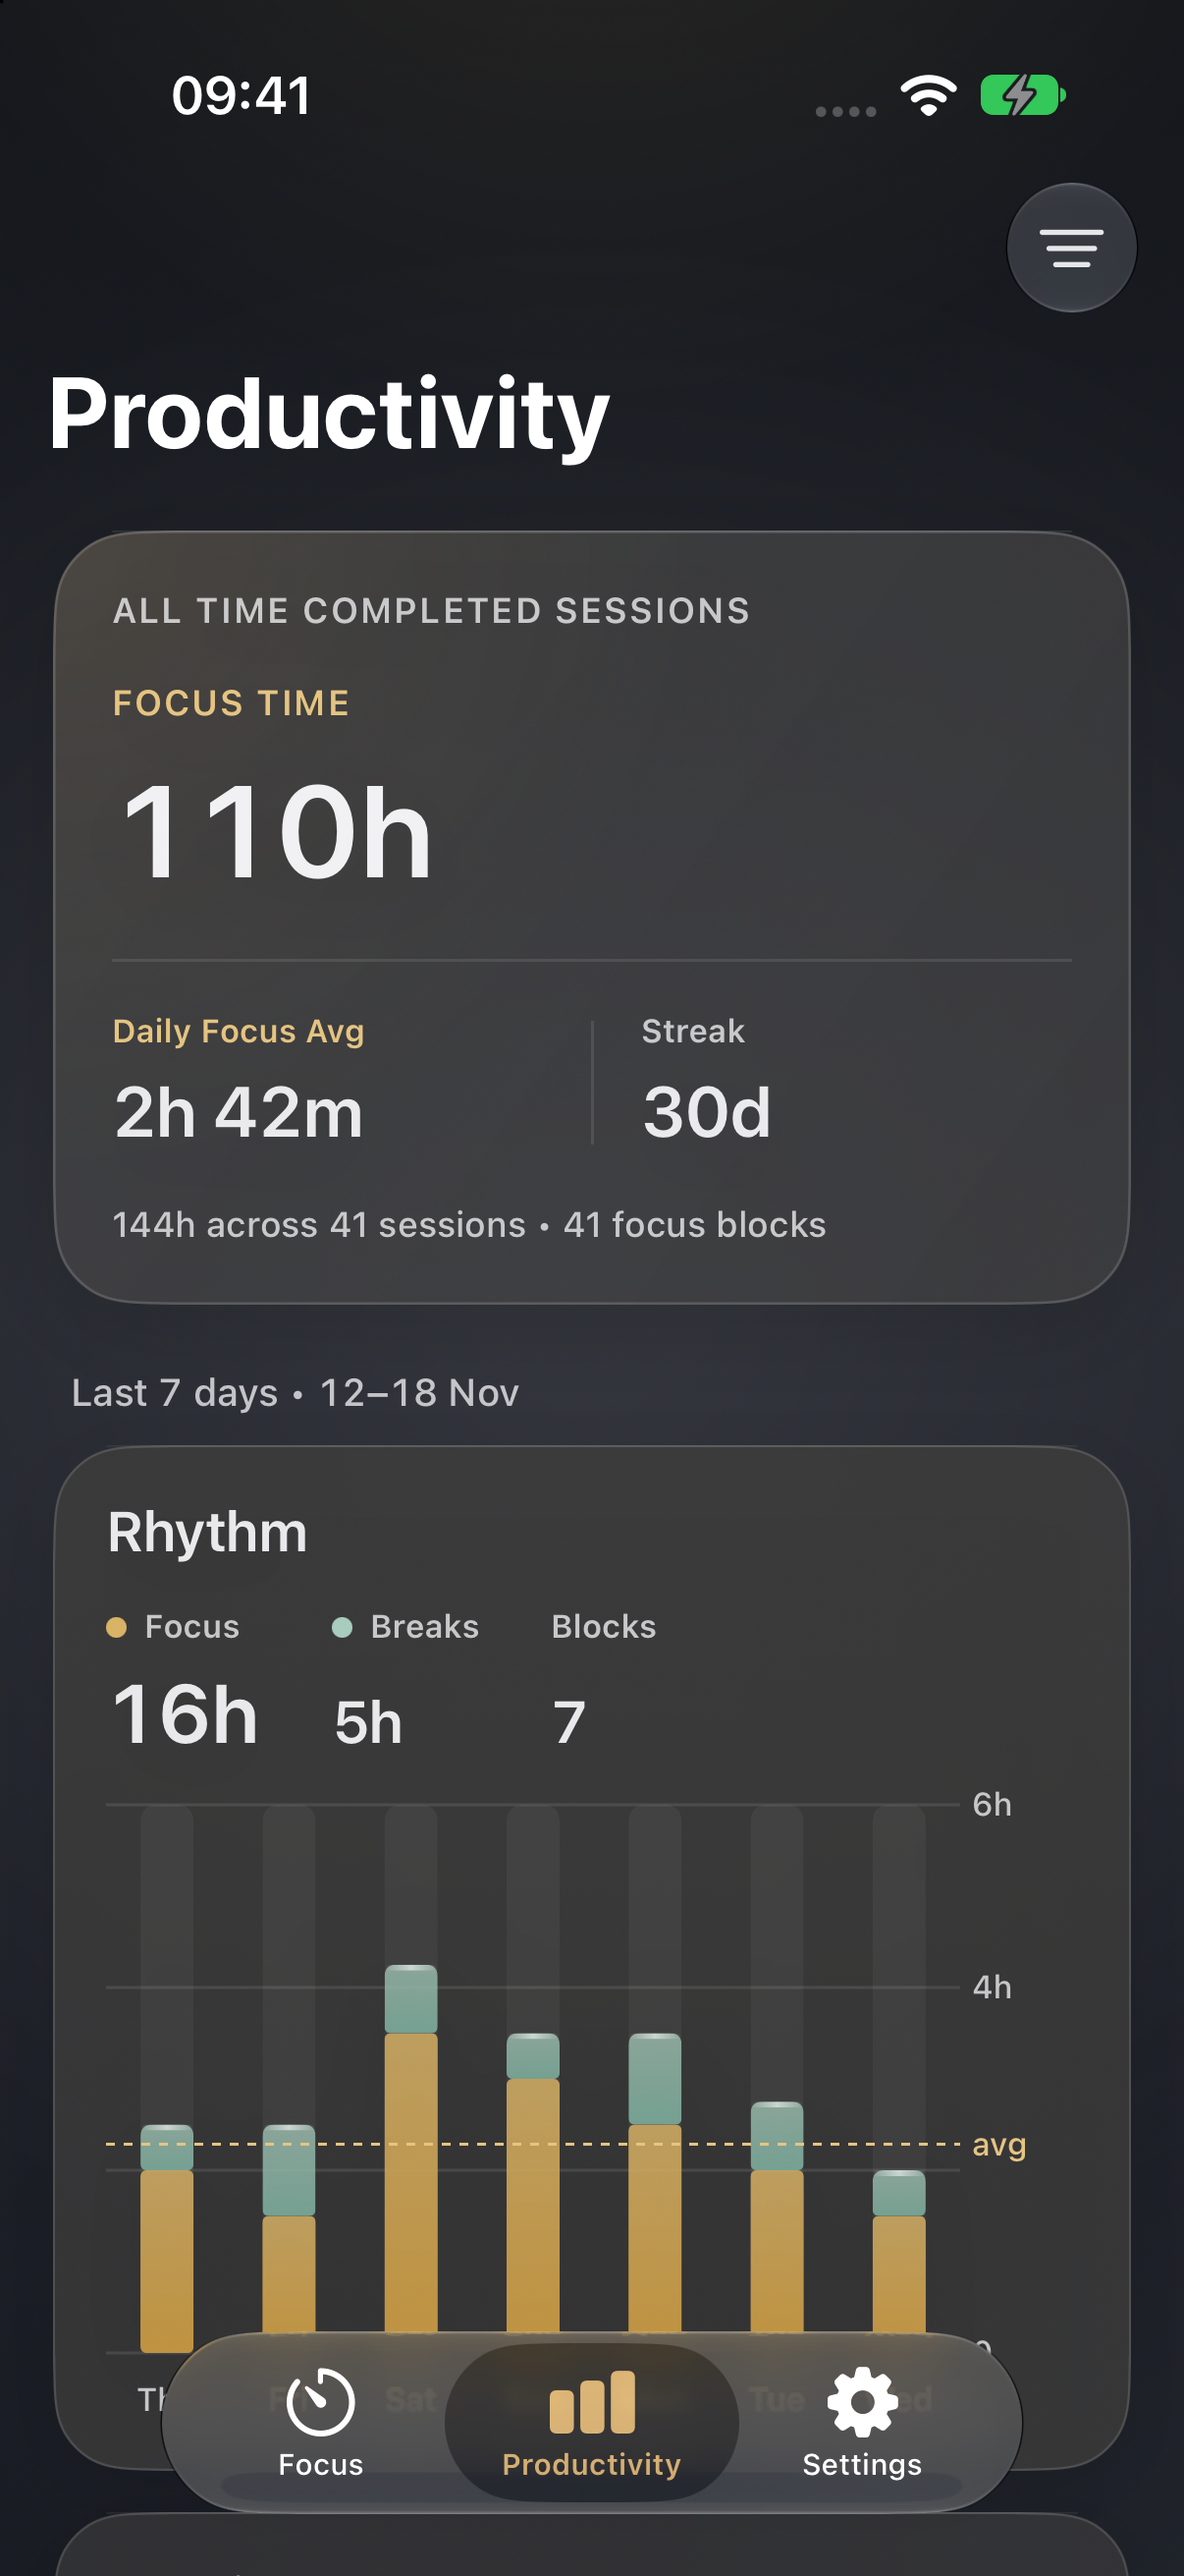
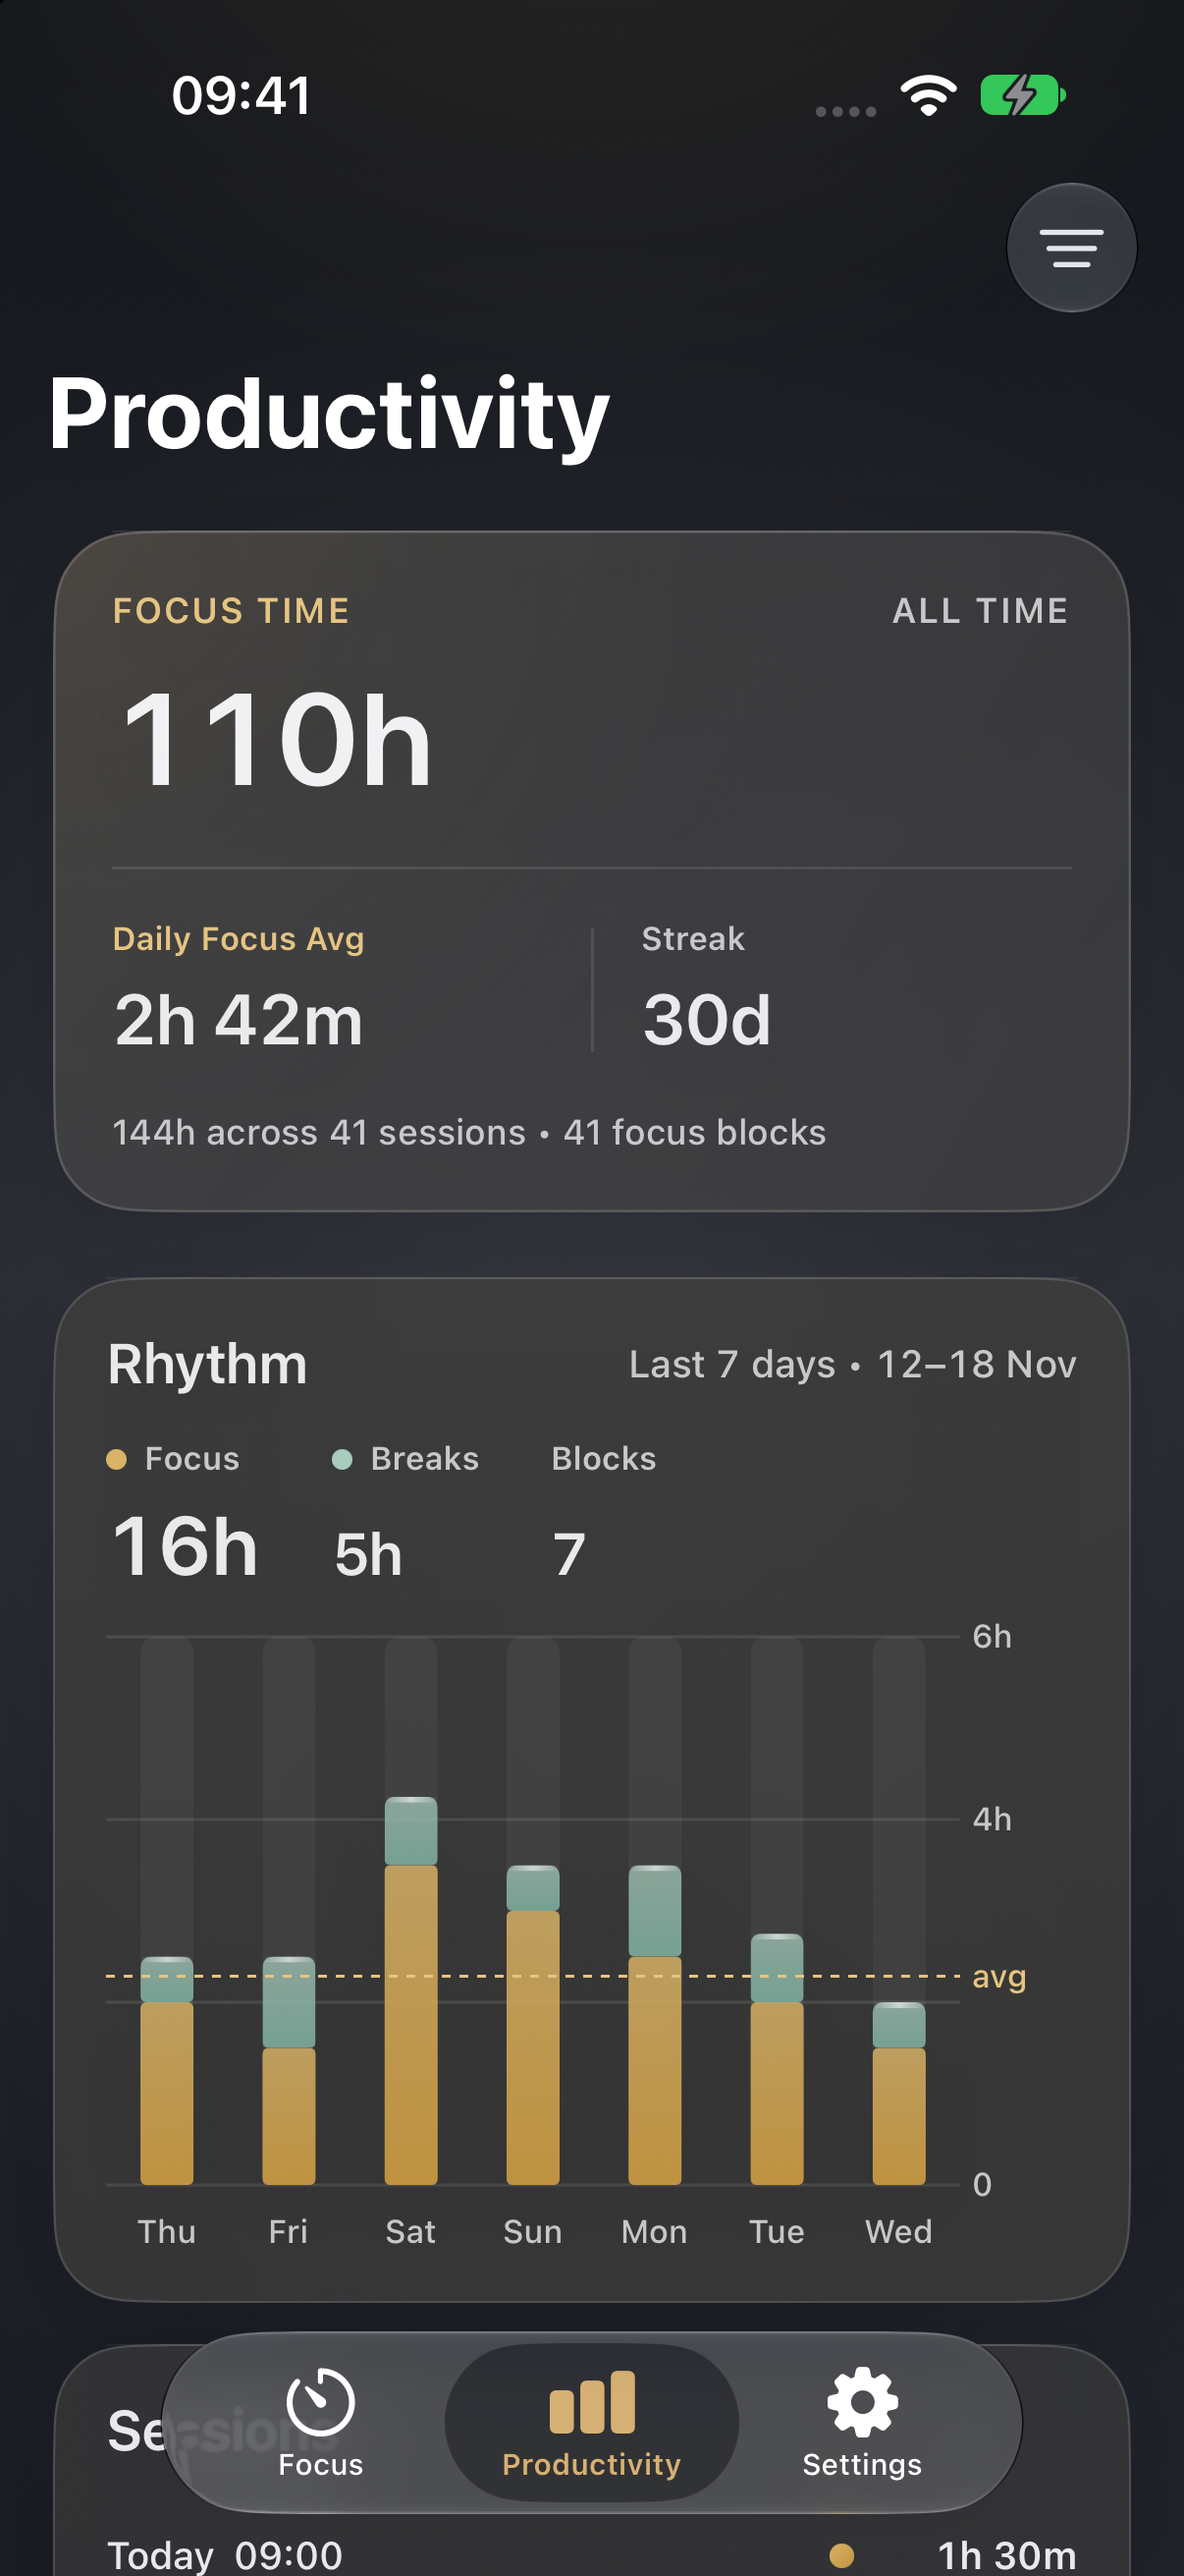
docs: refresh screenshots for the paused status and the compact summary
The paused Focus captures now read Focus · Paused, and the Productivity
captures show the one-line summary heading with the window and dates in
the Rhythm card. Recaptured at 4cc58ee on 18 November. The finished,
immersive and Settings captures were pixel-identical and stay as they
are.

diff --git a/docs/screenshots/README.md b/docs/screenshots/README.md
@@ -8,7 +8,7 @@ The session and history data is generated for these previews. The [README](../..
 
 | Detail | Value |
 | --- | --- |
-| App source revision | `59388ad54066` |
+| App source revision | `4cc58ee55c1b` |
 | Build | Debug, `VibePomodoro` iOS scheme |
 | Toolchain | Xcode 27.2, build 27B52 |
 | Device | iPhone 18 Pro |
@@ -24,7 +24,7 @@ The source revision identifies the app code in the captures. Rolling-window labe
 
 ## Focus and breaks
 
-Each phase is paused halfway through its current step. That keeps the liquid and countdown still for comparison. The outline and color change between phases; the baseline and numeral treatment stay the same.
+Each phase is paused halfway through its current step, so the status reads Focus · Paused and so on. That keeps the liquid and countdown still for comparison. The outline and color change between phases; the baseline and numeral treatment stay the same.
 
 | Phase | Light | Dark |
 | --- | :---: | :---: |
@@ -52,7 +52,7 @@ The populated previews use the existing `long-extreme` UI-testing fixture, which
 | :---: | :---: | :---: |
 | <img src="productivity-light.png" alt="Light all-time summary and Week chart with generated history" width="230"> | <img src="productivity-dark.png" alt="Dark all-time summary and Week chart with generated history" width="230"> | <img src="productivity-detail-light.png" alt="Light Productivity page scrolled to the Week chart and recent-session rows" width="230"> |
 
-The overview images start at the top. The detail image is scrolled to Rhythm and Sessions, leaving part of the all-time card above the screen. The native tab bar floats above the content.
+The overview images start at the top, where the whole Rhythm card fits above the tab bar. Its upper right names the window and dates. The detail image is scrolled to Rhythm and Sessions, leaving part of the all-time card above the screen. The native tab bar floats above the content.
 
 ### Ranges and selection
 
